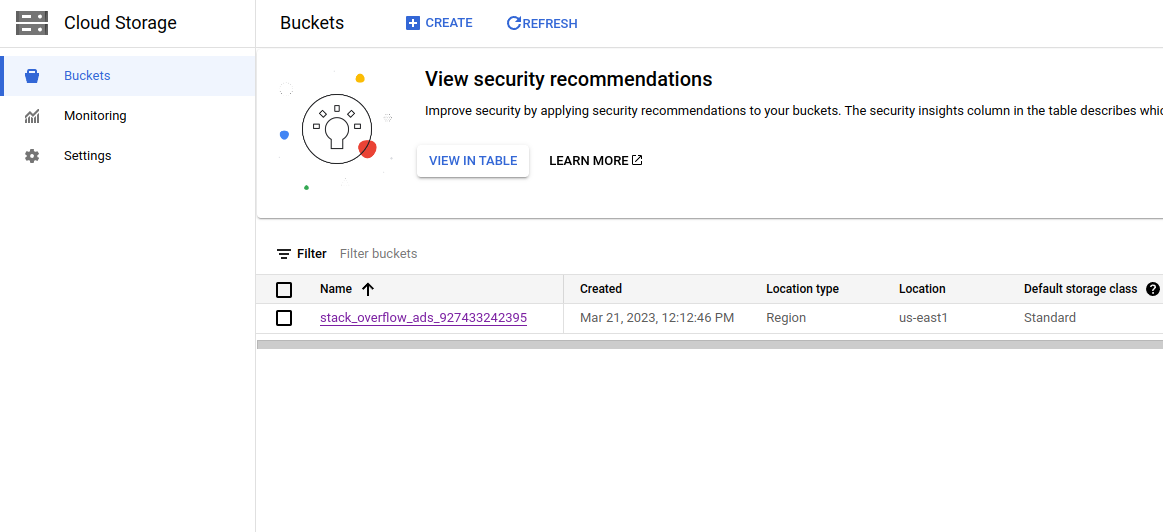
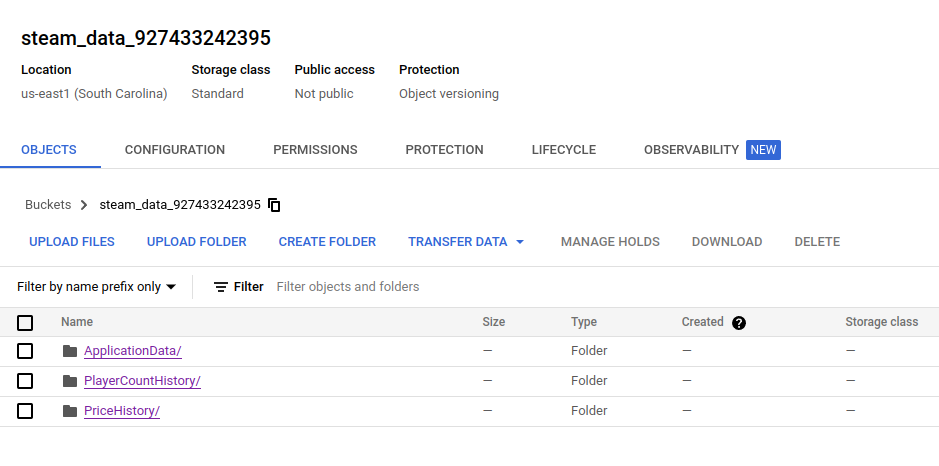
Updated docs for `terraform` project

diff --git a/terraform/README.md b/terraform/README.md
@@ -2,8 +2,8 @@
 
 In this directory contains terraform configuration which creates infrastructure in `Google Cloud` such as:
 
-- Bucket `stack_overflow_ads`
-- Big Query dataset `stack_overflow_ads`
+- Bucket `steam_data_927433242395`
+- Big Query dataset `steam_data`
 
 > **Note**: In real project `variables.tf` file must be in `.gitignore`
 
@@ -61,7 +61,7 @@ In this directory contains terraform configuration which creates infrastructure 
      # google_bigquery_dataset.dataset will be created
      + resource "google_bigquery_dataset" "dataset" {
          + creation_time              = (known after apply)
-         + dataset_id                 = "stack_overflow_ads"
+         + dataset_id                 = "steam_data"
          + delete_contents_on_destroy = false
          + etag                       = (known after apply)
          + id                         = (known after apply)
@@ -78,7 +78,7 @@ In this directory contains terraform configuration which creates infrastructure 
          + force_destroy               = true
          + id                          = (known after apply)
          + location                    = "US-EAST1"
-         + name                        = "stack_overflow_ads_927433242395"
+         + name                        = "steam_data_927433242395"
          + project                     = (known after apply)
          + public_access_prevention    = (known after apply)
          + self_link                   = (known after apply)
@@ -114,14 +114,12 @@ In this directory contains terraform configuration which creates infrastructure 
    
    google_bigquery_dataset.dataset: Creating...
    google_storage_bucket.data-lake-bucket: Creating...
-   google_bigquery_dataset.dataset: Creation complete after 2s [id=projects/927433242395/datasets/stack_overflow_ads]
-   google_storage_bucket.data-lake-bucket: Creation complete after 2s [id=stack_overflow_ads_927433242395]
+   google_bigquery_dataset.dataset: Creation complete after 2s [id=projects/927433242395/datasets/steam_data]
+   google_storage_bucket.data-lake-bucket: Creation complete after 2s [id=steam_data_927433242395]
    
    Apply complete! Resources: 2 added, 0 changed, 0 destroyed.
    ```
    
-after these actions, our project should create bucket `stack_overflow_ads` and `BigQuery` dataset `stack_overflow_ads`:
+after these actions, our project should create bucket `steam_data_927433242395` and `BigQuery` dataset `steam_data_927433242395`:
 
-![img.png](../docs/img/terraform/screenshot_1.png)
-
-![img_1.png](../docs/img/terraform/screenshot_2.png)
+![screenshot_1.png](..%2Fdocs%2Fimg%2Fterraform%2Fscreenshot_1.png)
